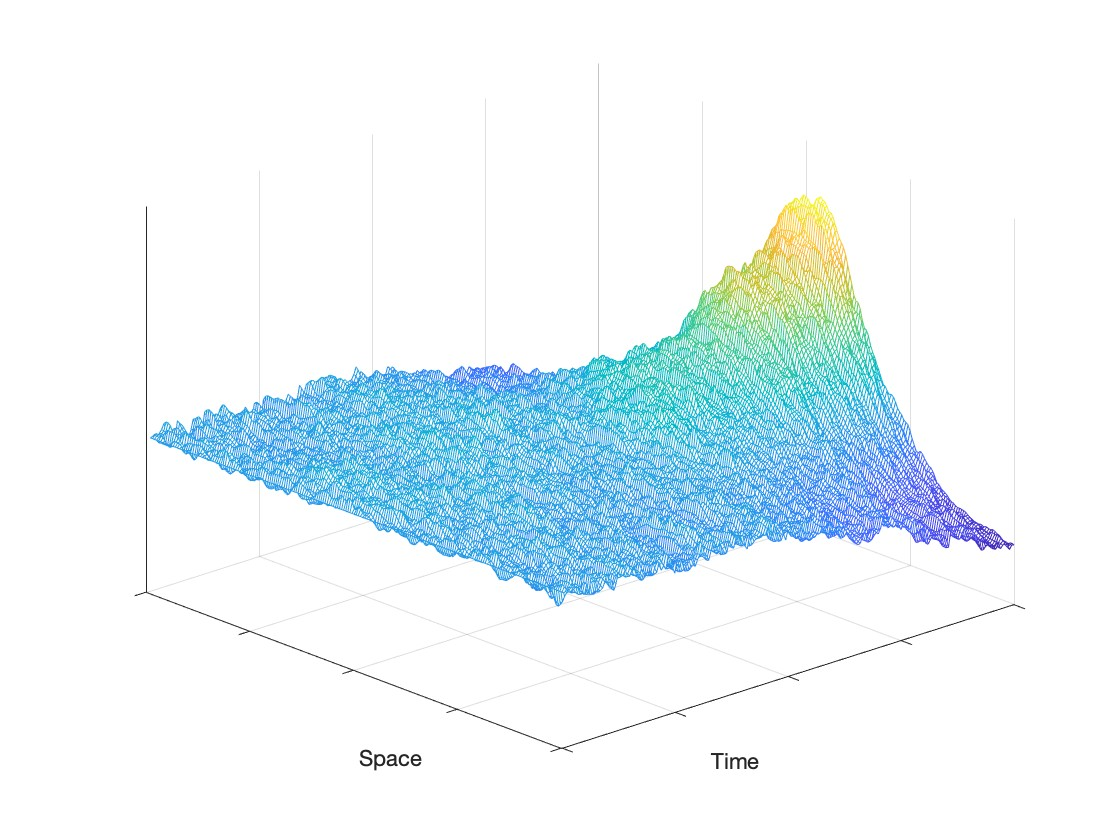
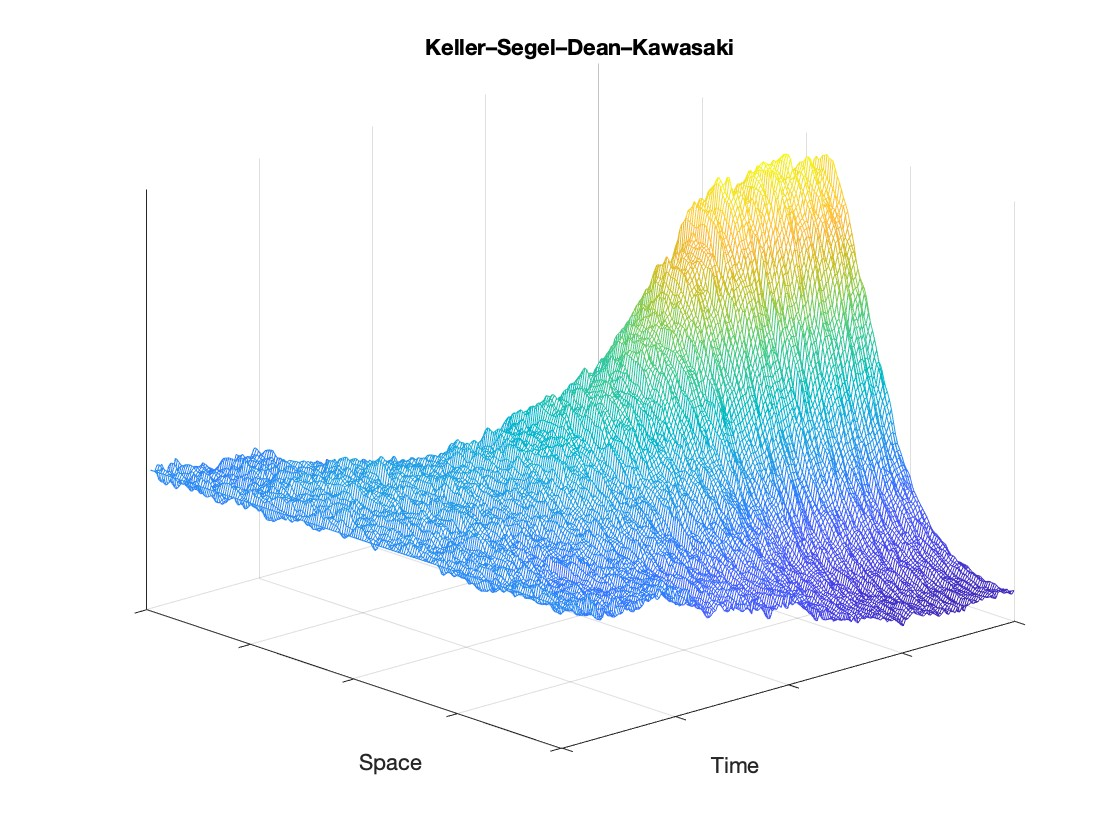
Improve description and image, remove social media

diff --git a/content/publication/preprint/index.md b/content/publication/preprint/index.md
@@ -6,6 +6,8 @@ authors:
 date: "22.09.2022"
 doi: "10.48550/arXiv.2207.10711"
 
+share: false
+
 # Schedule page publish date (NOT publication's date).
 publishDate: "2022-09-22"
 
@@ -46,8 +48,8 @@ url_video: ''
 # Featured image
 # To use, add an image named `featured.jpg/png` to your page's folder. 
 image:
-  caption: ''
-  focal_point: ""
+  caption: 'Simulation of the Keller–Segel–Dean Kawasaki equation'
+  focal_point: "Center"
   preview_only: false
 
 # Associated Projects (optional).
@@ -71,24 +73,22 @@ slides: ""
 #slides: example
 ---
 
+# Description
+
 We are interested in the fluctuating hydrodynamics of the Keller–Segel model of chemotaxis, the so-called Keller–Segel–Dean–Kawasaki (KSDK) equation:
 
 {{< math >}}
 $$
 \begin{cases}
-  (\partial_{t}-\Delta)\rho = -\nabla\cdot(\rho\nabla c)-\sqrt{\eps}\nabla\cdot(\sqrt{\rho}\boldsymbol{\xi}),\\
-  -\Delta c = \rho.
+  (\partial_{t}-\Delta)\rho &= -\nabla\cdot(\rho\nabla c)-\sqrt{\varepsilon}\nabla\cdot(\sqrt{\rho}\boldsymbol{\xi}),\\
+  -\Delta c &= \rho,
 \end{cases}
 $$
 {{< /math >}}
 
-This equation is a mesoscopic model for the dynamics of a finite population in which particles disperse a chemical
+where {{< math >}} $\varepsilon$ {{< /math >}} is the noise intensity and {{< math >}} $\boldsymbol{\xi}$ {{< /math >}} denotes a vector-valued space-time white noise.
 
-{{< math >}}
-$c$
-{{< /math >}},
+This equation is a mesoscopic model for the dynamics of a finite population in which particles disperse a chemical {{< math >}} $c$ {{< /math >}}, to which other particles react by moving up the chemical gradient. For a survey on the rôle of chemotaxis in biology, see [K. J. Painter. *J. Theor. Biol.* 481, 2019].
 
-to which other particles react by moving up the chemical gradient. For a survey on the rôle of chemotaxis in biology, see [K. J. Painter. *J. Theor. Biol.* 481, 2019].
-
-Due to the non-linear noise, we do not expect KSDK to be well-posed. Instead, we consider an additive-noise approximation and establish its well-posedness with the theory of paracontrolled calculus [M. Gubinelli, P. Imkeller, N. Perkowski. *Forum Math. Pi*, 3, 2015, Article e6]
+Due to the non-linear noise, we do not expect KSDK to be well-posed. Instead, we consider an additive-noise approximation and establish its well-posedness with the theory of paracontrolled calculus [M. Gubinelli, P. Imkeller, N. Perkowski. *Forum Math. Pi*, 3, 2015, Article e6].
 
